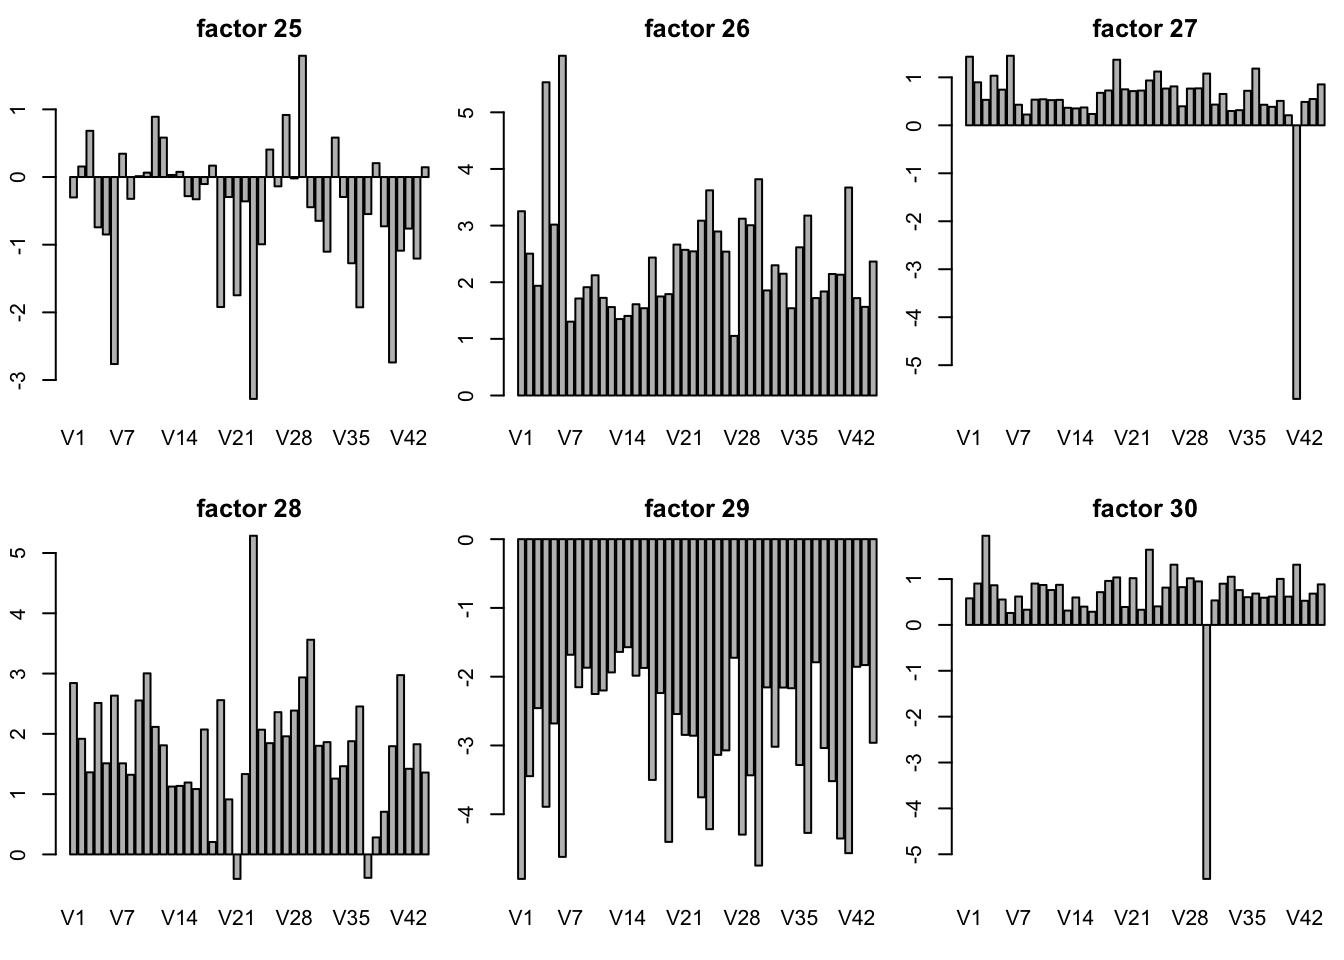
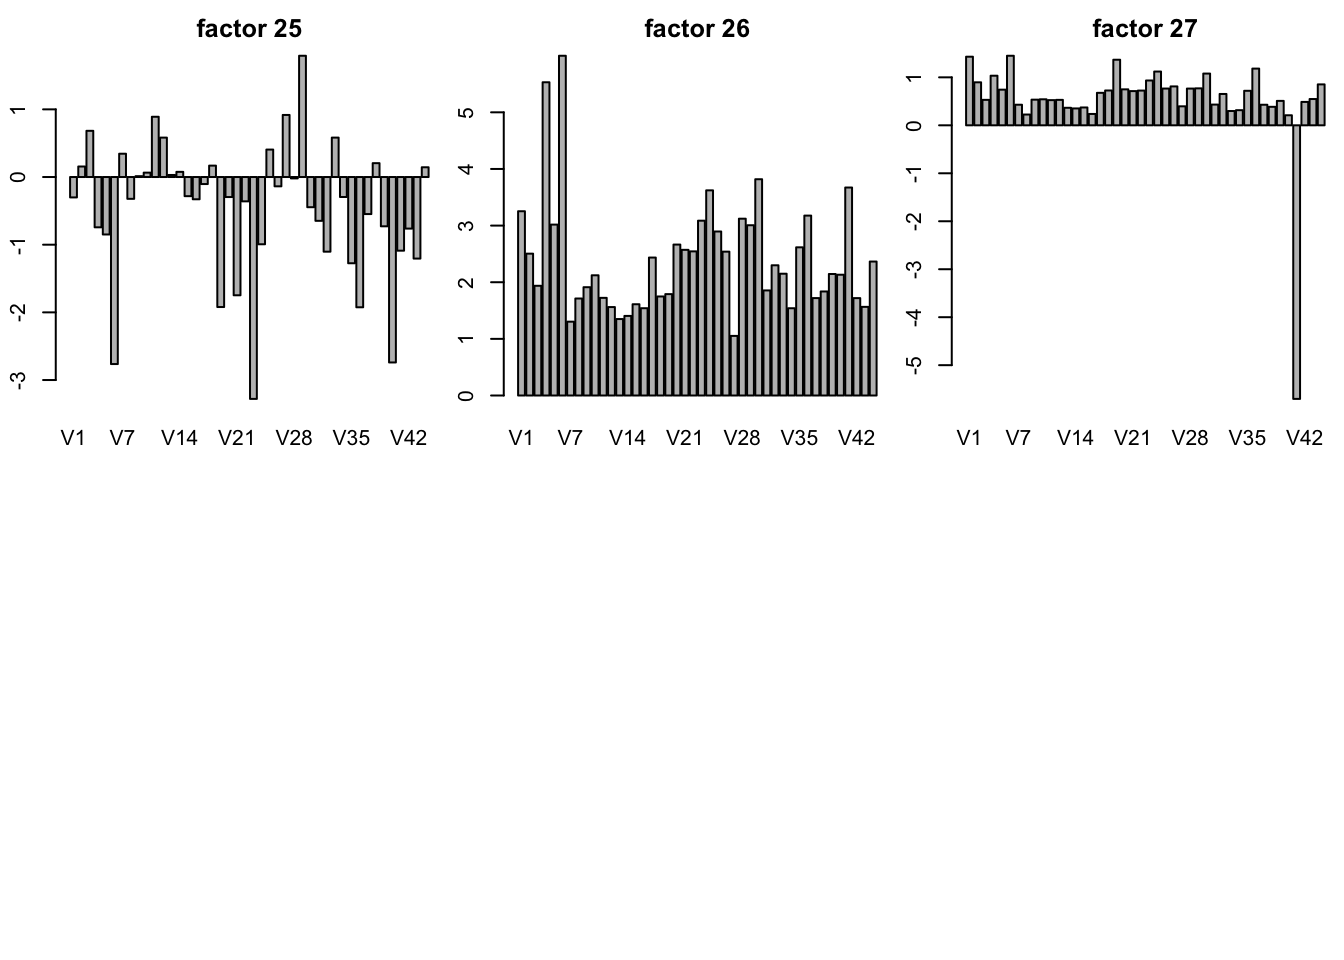
Build site.

diff --git a/docs/GTEXzscoreTemplate.html b/docs/GTEXzscoreTemplate.html
@@ -332,7 +332,7 @@ shared across the workflowr files. -->
 <p><strong>Last updated:</strong> 2017-10-05</p>
 <!-- Insert the code version (Git commit SHA1) if Git repository exists and R
  package git2r is installed -->
-<p><strong>Code version:</strong> 03386e7</p>
+<p><strong>Code version:</strong> 57825d0</p>
 <!-- Add your analysis here -->
 <div id="install-the-package" class="section level2">
 <h2>Install the package</h2>
@@ -579,7 +579,7 @@ K = 30
 <pre class="r"><code>sfares = readRDS(&quot;../data/GTExdata/SFAres/sfaGTExzscore.rds&quot;)
 # the F is K by N matrix! not N by K matrix
 par(mfrow = c(2,3),mar=c(5.1,4.1,4.1,2.1)-1.9)
-for(k in 1:30){
+for(k in 1:27){
   barplot(sfares$F[k,],main = paste(&quot;factor&quot;,k))
 }</code></pre>
 <p><img src="figure/GTEXzscoreTemplate.Rmd/unnamed-chunk-2-1.png" width="672" style="display: block; margin: auto;" /><img src="figure/GTEXzscoreTemplate.Rmd/unnamed-chunk-2-2.png" width="672" style="display: block; margin: auto;" /><img src="figure/GTEXzscoreTemplate.Rmd/unnamed-chunk-2-3.png" width="672" style="display: block; margin: auto;" /><img src="figure/GTEXzscoreTemplate.Rmd/unnamed-chunk-2-4.png" width="672" style="display: block; margin: auto;" /><img src="figure/GTEXzscoreTemplate.Rmd/unnamed-chunk-2-5.png" width="672" style="display: block; margin: auto;" /></p>
